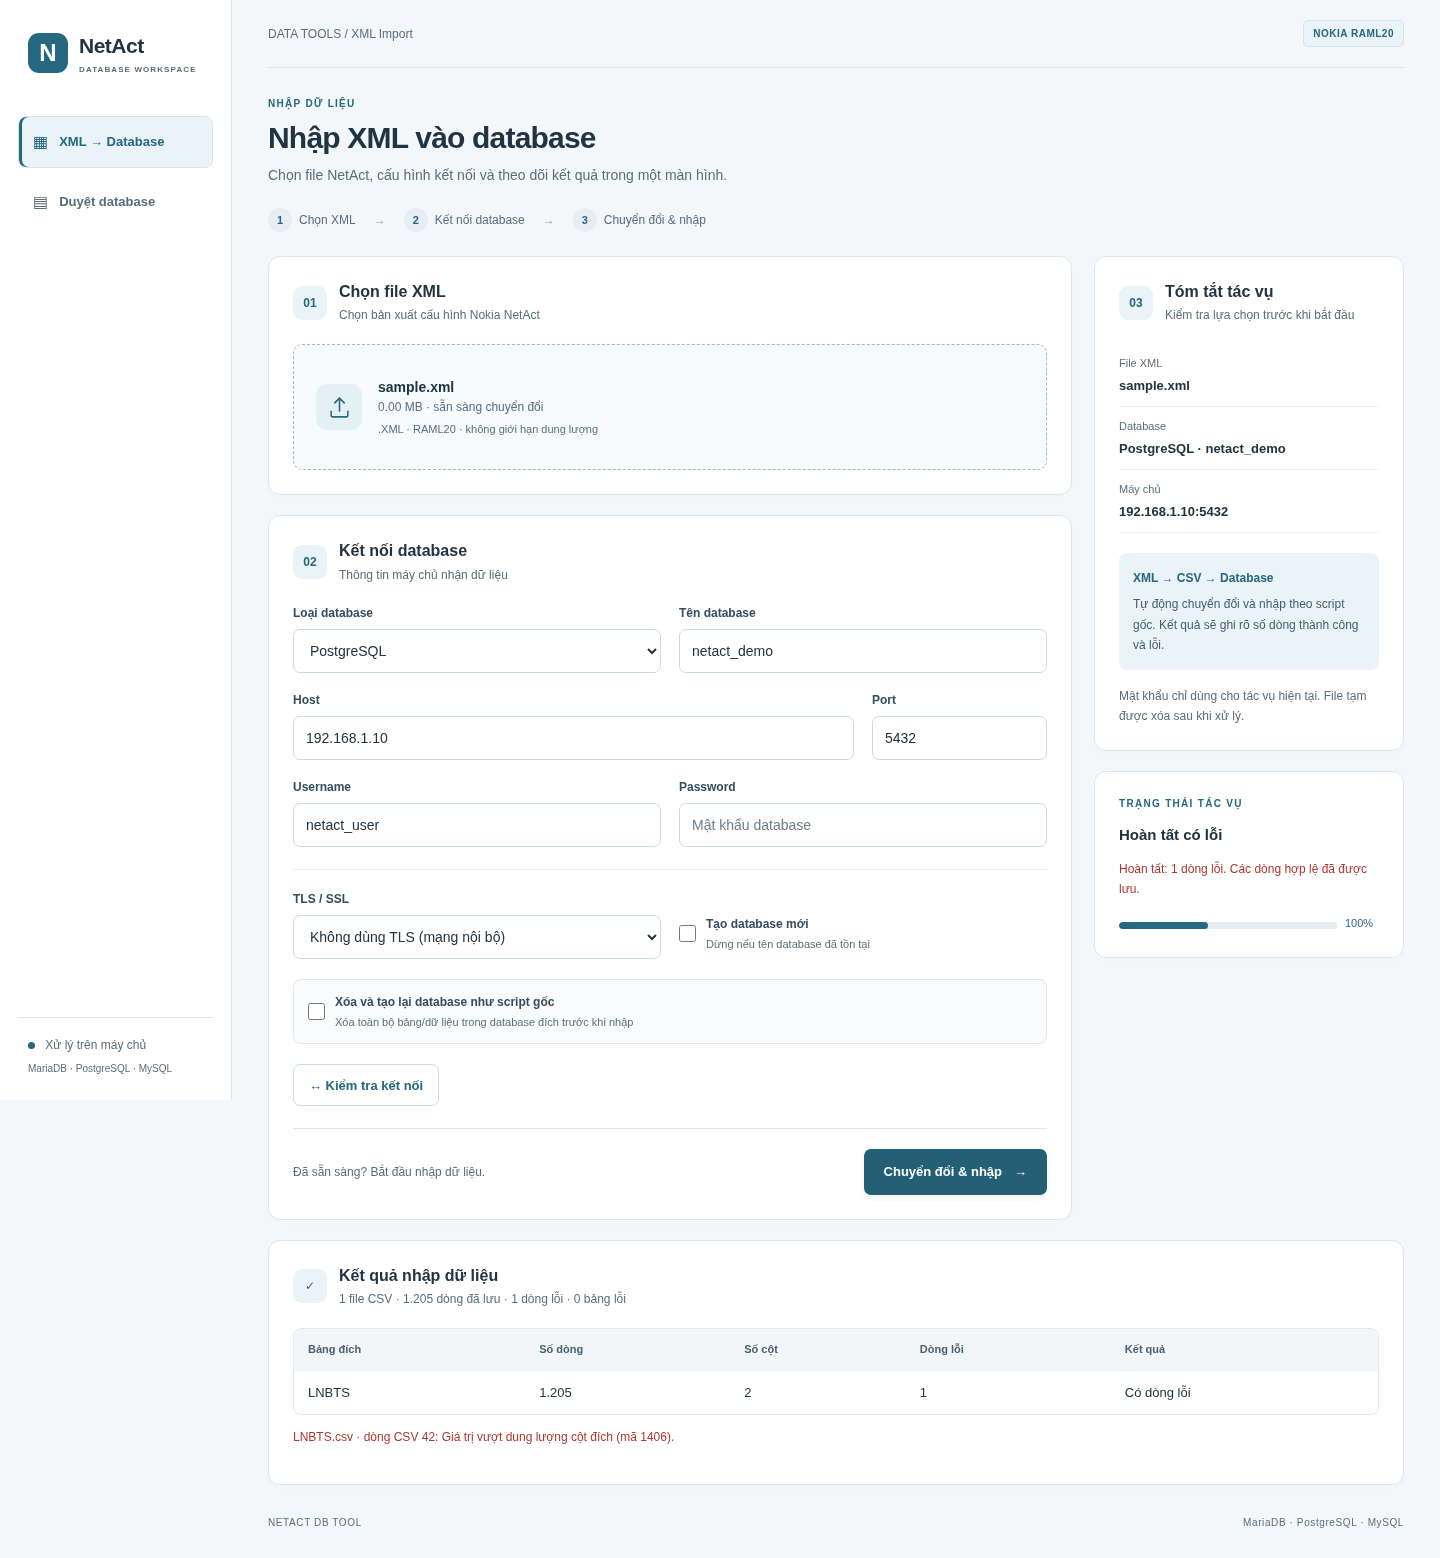
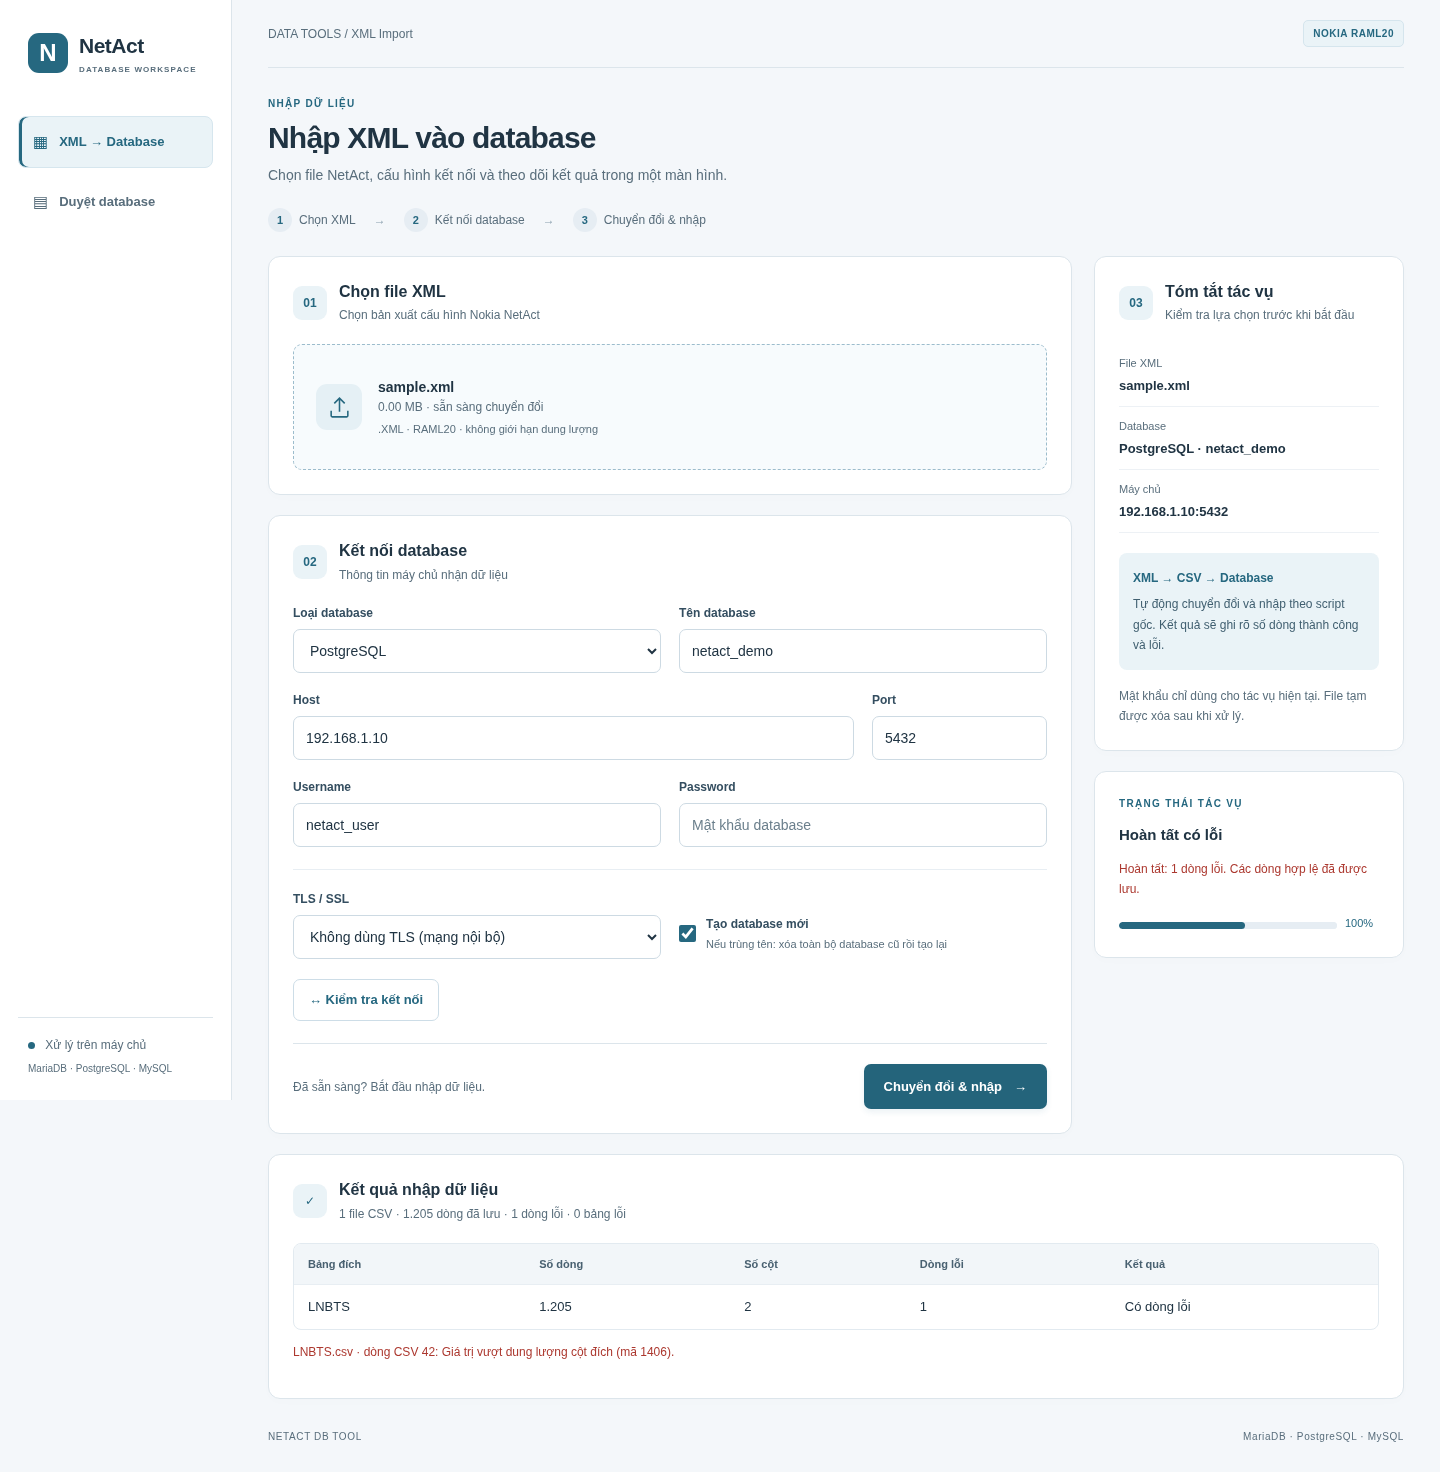
Merge database creation and reset into one recreate option

diff --git a/app/static/index.html b/app/static/index.html
@@ -12,8 +12,7 @@
 </section>
 <section class="card"><div class="section-title"><span class="step">02</span><div><h2>Kết nối database</h2><p>Thông tin máy chủ nhận dữ liệu</p></div></div>
 <div class="grid"><label>Loại database<select id="db_type"><option value="mariadb">MariaDB</option><option value="postgres">PostgreSQL</option><option value="mysql">MySQL</option></select></label><label>Tên database<input id="database" placeholder="netact_import" pattern="[A-Za-z_][A-Za-z0-9_]{0,62}" title="Chữ Latin, số, dấu gạch dưới; không bắt đầu bằng số; tối đa 63 ký tự" required></label><label>Host<input id="host" placeholder="VD: 192.168.1.10" required></label><label>Port<input id="port" type="number" min="1" max="65535" value="3306" required></label><label>Username<input id="username" autocomplete="username" placeholder="netact_user" required></label><label>Password<input id="password" type="password" autocomplete="current-password" placeholder="Mật khẩu database"></label></div>
-<div class="grid options"><label>TLS / SSL<select id="ssl_mode"><option value="disable">Không dùng TLS (mạng nội bộ)</option><option value="verify-full">TLS + xác minh chứng chỉ</option><option value="require" id="tls-require" disabled>TLS bắt buộc (PostgreSQL)</option></select></label><label class="check"><input id="create_database" type="checkbox"><span>Tạo database mới<small>Dừng nếu tên database đã tồn tại</small></span></label></div>
-<div class="reset-option"><label class="check"><input id="reset_database" type="checkbox"><span>Xóa và tạo lại database như script gốc<small>Xóa toàn bộ bảng/dữ liệu trong database đích trước khi nhập</small></span></label><label id="reset-confirm-label" hidden>Nhập lại tên database để xác nhận xóa<input id="confirm_database" autocomplete="off" placeholder="Tên database sẽ bị xóa"></label></div>
+<div class="grid options"><label>TLS / SSL<select id="ssl_mode"><option value="disable">Không dùng TLS (mạng nội bộ)</option><option value="verify-full">TLS + xác minh chứng chỉ</option><option value="require" id="tls-require" disabled>TLS bắt buộc (PostgreSQL)</option></select></label><label class="check"><input id="create_database" type="checkbox"><span>Tạo database mới<small>Nếu trùng tên: xóa toàn bộ database cũ rồi tạo lại</small></span></label></div>
 <div class="connection-row"><button type="button" class="button secondary" id="test-connection">↔ Kiểm tra kết nối</button><span id="connection-result" role="status"></span></div>
 <div class="form-actions"><span>Đã sẵn sàng? Bắt đầu nhập dữ liệu.</span><button class="button primary" id="submit" type="submit">Chuyển đổi & nhập <span aria-hidden="true">→</span></button></div>
 </section>

diff --git a/app/static/app.js b/app/static/app.js
@@ -5,8 +5,7 @@ const sleep = ms => new Promise(resolve => setTimeout(resolve, ms));
 function config() {
   return {db_type: $('db_type').value, host: $('host').value.trim(), port: Number($('port').value),
     database: $('database').value.trim(), username: $('username').value.trim(), password: $('password').value,
-    create_database: $('create_database').checked, reset_database: $('reset_database').checked,
-    confirm_database: $('confirm_database').value, ssl_mode: $('ssl_mode').value};
+    create_database: $('create_database').checked, ssl_mode: $('ssl_mode').value};
 }
 async function request(url, options) {
   const response = await fetch(url, options);
@@ -21,19 +20,8 @@ function setBusy(value) {
   for (const control of form.querySelectorAll('input,select,button')) control.disabled = value;
   if (!value) {
     $('tls-require').disabled = $('db_type').value !== 'postgres';
-    $('create_database').disabled = $('reset_database').checked;
   }
 }
-function resetChoice() {
-  const enabled = $('reset_database').checked;
-  $('reset-confirm-label').hidden = !enabled;
-  $('confirm_database').required = enabled;
-  $('create_database').disabled = enabled;
-  if (enabled) $('create_database').checked = false;
-  const match = !enabled || $('confirm_database').value === $('database').value;
-  $('confirm_database').setCustomValidity(match ? '' : 'Nhập đúng tên database để xác nhận xóa.');
-}
-for (const id of ['reset_database','confirm_database','database']) $(id).addEventListener('input', resetChoice);
 function updateSummary() {
   const file = $('xml-file').files[0];
   $('summary-file').textContent = file ? file.name : 'Chưa chọn file';

diff --git a/app/static/style.css b/app/static/style.css
@@ -78,10 +78,6 @@ input:disabled, select:disabled { background: #f3f6f8; color: var(--muted); opac
 .options .check { align-self: center; padding-top: 18px; }
 .check input { width: 17px; height: 17px; margin: 0; flex-shrink: 0; accent-color: var(--accent); cursor: pointer; }
 .check small { display: block; font-size: 11px; color: var(--muted); font-weight: 400; margin-top: 3px; line-height: 1.5; }
-.reset-option { margin-top: 20px; border: 1px solid #e1e7ec; border-radius: 8px; padding: 13px 14px; background: #fafbfc; }
-.reset-option:has(input:checked) { border-color: #e7bca8; background: #fff8f3; }
-.reset-option:has(input:checked) .check { color: #9c4532; }
-.reset-option > label + label { margin-top: 15px; }
 .connection-row { display: flex; gap: 14px; align-items: center; flex-wrap: wrap; margin-top: 20px; }
 #connection-result, #browse-connection { font-size: 12px; line-height: 1.6; overflow-wrap: anywhere; flex: 1; min-width: 140px; }
 .button { display: inline-flex; gap: 12px; align-items: center; justify-content: center; min-height: 42px; padding: 10px 15px; border: 1px solid transparent; border-radius: 7px; font-size: 13px; font-weight: 600; transition: background .15s, box-shadow .15s; }

diff --git a/app/errors.py b/app/errors.py
@@ -11,7 +11,7 @@ DATABASE_ERRORS = {
     '1045': 'Sai tài khoản/mật khẩu hoặc tài khoản không được phép kết nối từ máy chủ web.',
     '1044': 'Tài khoản không có quyền truy cập hoặc tạo database này.',
     '1049': 'Database chưa tồn tại. Tạo trước hoặc chọn Tạo database mới.',
-    '1007': 'Database đã tồn tại. Bỏ chọn Tạo database mới để dùng database đó.',
+    '1007': 'Database đã tồn tại hoặc đang được tạo bởi tác vụ khác. Kiểm tra tên đích và quyền DROP/CREATE.',
     '1142': 'Tài khoản thiếu quyền thực hiện thao tác trên bảng (CREATE/INSERT/SELECT/DROP).',
     '1050': 'Bảng đã tồn tại trong database đích.',
     '1118': 'Bảng vượt giới hạn kích thước một dòng của MariaDB/MySQL.',
@@ -27,7 +27,7 @@ DATABASE_ERRORS = {
     '28000': 'PostgreSQL từ chối xác thực. Kiểm tra tài khoản và pg_hba.conf.',
     '3D000': 'Database chưa tồn tại. Tạo trước hoặc chọn Tạo database mới.',
     '42501': 'Tài khoản PostgreSQL thiếu quyền trên database/schema/bảng.',
-    '42P04': 'Database đã tồn tại. Bỏ chọn Tạo database mới.',
+    '42P04': 'Database đã tồn tại hoặc đang được tạo bởi tác vụ khác. Kiểm tra tên đích và quyền DROP/CREATE.',
     '42P07': 'Bảng đã tồn tại trong schema đích.',
     '54011': 'Bảng vượt số cột PostgreSQL hỗ trợ.',
     '54000': 'Dữ liệu vượt giới hạn của PostgreSQL.',

diff --git a/tests/test_workflow.py b/tests/test_workflow.py
@@ -282,13 +282,15 @@ def test_real_database_workflow(db_type, port, user, tmp_path):
         with target.connect() as conn:
             assert conn.exec_driver_sql(f'SELECT COUNT(*) FROM {q(table)}').scalar() == 4
         verify_original_script_cases(target, tmp_path, db_type)
-        # Only this test's randomly named DB is dropped/recreated.
-        from pydantic import ValidationError
-        with pytest.raises(ValidationError):
-            ConnectionConfig(**{**config, 'reset_database': True, 'confirm_database': 'wrong'})
+        # Creating a database now means DROP IF EXISTS + CREATE with the same name.
+        # Leaving the option off, or testing a connection, must preserve existing data.
+        assert client.post('/api/connection', json=config).json()['ok']
+        assert inspect(target).get_table_names()
+        reused = prepare_database(ConnectionConfig(**{**config, 'create_database': False}))
+        assert inspect(reused).get_table_names()
+        reused.dispose()
         target.dispose()
-        recreated = prepare_database(ConnectionConfig(**{**config, 'reset_database': True,
-                                                        'confirm_database': config['database']}))
+        recreated = prepare_database(ConnectionConfig(**config))
         with recreated.connect() as conn:
             assert inspect(conn).get_table_names() == []
         recreated.dispose()

diff --git a/app/config.py b/app/config.py
@@ -1,6 +1,6 @@
 from typing import Literal
 
-from pydantic import BaseModel, ConfigDict, Field, SecretStr, field_validator, model_validator
+from pydantic import BaseModel, ConfigDict, Field, SecretStr, field_validator
 
 
 class ConnectionConfig(BaseModel):
@@ -12,15 +12,7 @@ class ConnectionConfig(BaseModel):
     username: str = Field(min_length=1, max_length=128)
     password: SecretStr
     create_database: bool = False
-    reset_database: bool = False
-    confirm_database: str = Field(default="", max_length=63)
     ssl_mode: Literal['disable', 'require', 'verify-full'] = 'disable'
-
-    @model_validator(mode='after')
-    def confirmed_reset(self):
-        if self.reset_database and self.confirm_database != self.database:
-            raise ValueError('Phải nhập đúng tên database để xác nhận xóa và tạo lại.')
-        return self
 
     @field_validator('ssl_mode')
     @classmethod

diff --git a/app/importer.py b/app/importer.py
@@ -37,14 +37,13 @@ def engine_for(config, database=None):
 
 
 def prepare_database(config):
-    if config.create_database or config.reset_database:
+    if config.create_database:
         admin = engine_for(config, 'postgres' if config.db_type == 'postgres' else 'information_schema')
         try:
             with admin.connect().execution_options(isolation_level='AUTOCOMMIT') as conn:
                 name = admin.dialect.identifier_preparer.quote_identifier(config.database)
                 suffix = ' CHARACTER SET utf8mb4 COLLATE utf8mb4_unicode_ci' if config.db_type != 'postgres' else ''
-                if config.reset_database:
-                    conn.exec_driver_sql(f'DROP DATABASE IF EXISTS {name}')
+                conn.exec_driver_sql(f'DROP DATABASE IF EXISTS {name}')
                 conn.exec_driver_sql(f'CREATE DATABASE {name}{suffix}')
         finally:
             admin.dispose()

diff --git a/app/main.py b/app/main.py
@@ -96,7 +96,7 @@ def health():
 @app.post('/api/connection')
 def test_connection(config: ConnectionConfig):
     # Read-only: never create a database from the connection-test button.
-    engine = engine_for(config, ('postgres' if config.db_type == 'postgres' else 'information_schema') if config.create_database or config.reset_database else None)
+    engine = engine_for(config, ('postgres' if config.db_type == 'postgres' else 'information_schema') if config.create_database else None)
     try:
         with engine.connect() as conn:
             conn.execute(text('SELECT 1')).scalar_one()

diff --git a/README.md b/README.md
@@ -42,9 +42,9 @@ Mở trình duyệt tại `http://localhost:8000`. Chọn XML từ máy tính, n
 host, port, database, username, password và TLS. Nhấn **Kiểm tra kết nối**, sau đó
 **Chuyển đổi & nhập**. Xem tiến độ và số bảng/dòng đã lưu.
 
-- **Database đã có:** bỏ chọn “Tạo database mới”; tài khoản cần quyền CONNECT, CREATE TABLE, INSERT và DROP (để dọn khi lỗi).
-- **Database mới:** chọn “Tạo database mới”; cần quyền CREATE DATABASE. PostgreSQL dùng database `postgres` để kết nối quản trị;
-  MariaDB/MySQL dùng `information_schema`. Database đã tồn tại sẽ làm bước tạo thất bại.
+- **Database đã có:** bỏ chọn “Tạo database mới”; tài khoản cần quyền CONNECT, CREATE TABLE và INSERT.
+- **Database mới:** chọn “Tạo database mới”; chạy DROP DATABASE IF EXISTS rồi CREATE cùng tên, cần quyền DROP/CREATE DATABASE. PostgreSQL dùng database `postgres` để kết nối quản trị;
+  MariaDB/MySQL dùng `information_schema`. **Nếu database đã tồn tại, toàn bộ dữ liệu trong đó sẽ bị xóa.**
 - Tên database: chữ Latin, số, `_`, tối đa 63 ký tự, không bắt đầu bằng số.
 - Host là địa chỉ **máy chủ web** truy cập được; không phải địa chỉ tương đối với máy đang mở trình duyệt.
 - PostgreSQL mặc định 5432; MariaDB/MySQL 3306. Có thể sửa port.
@@ -120,10 +120,9 @@ Log máy chủ chỉ ghi mã tác vụ, giai đoạn, loại exception và mã l
   để lỗi một dòng không làm hỏng toàn bộ transaction. Commit sau khi duyệt các file CSV.
 - Kết quả hiển thị số dòng thành công, dòng lỗi, bảng lỗi và tối đa 20 chi tiết lỗi mỗi file,
   không chứa giá trị dữ liệu/SQL/mật khẩu. Nếu có lỗi, trạng thái là **Hoàn tất có lỗi**, không báo thành công toàn bộ.
-- Để thực hiện đúng bước `DROP DATABASE IF EXISTS` rồi `CREATE DATABASE` của script gốc,
-  chọn **Xóa và tạo lại database như script gốc** và nhập lại đúng tên database để xác nhận.
-  **Bước này xóa toàn bộ bảng/dữ liệu của database đích.** Tài khoản cần quyền DROP/CREATE DATABASE.
-  Mặc định không tự xóa database; nếu không chọn xóa hoặc tạo mới thì dùng database đang có.
+- Chỉ có một tùy chọn **Tạo database mới**: bật thì chạy `DROP DATABASE IF EXISTS` rồi `CREATE DATABASE`
+  cùng tên; tắt thì dùng database hiện có và giữ dữ liệu. Không có ô reset/xác nhận tên riêng.
+  **Khi bật, toàn bộ bảng/dữ liệu của database trùng tên sẽ bị xóa.** Tài khoản cần quyền DROP/CREATE DATABASE.
   Kiểm tra kết nối và duyệt database không bao giờ thực hiện DROP/CREATE.
 - Lỗi đọc file/CSV, commit, mất kết nối hoặc tiến trình bị dừng có thể làm tác vụ dừng và còn dữ liệu nhập dở,
   như khi script bị gián đoạn. Không chạy đồng thời tác vụ khác sửa cùng database trong lúc import.
@@ -176,7 +175,7 @@ docker rm -f netact-test-pg netact-test-maria
 
 Kiểm thử chạy JAR thật, upload API, tạo DB tạm, đọc lại giá trị tiếng Việt/ID `001`,
 kiểm tra tái sử dụng bảng, kiểu VARCHAR/TEXT, dòng thiếu/thừa/trắng, encoding, bảng 400 cột,
-lỗi tạo bảng/insert vẫn tiếp tục, tên file cắt trùng và xác nhận xóa/tạo lại database kiểm thử. Kiểm thử database còn xác minh danh sách bảng,
+lỗi tạo bảng/insert vẫn tiếp tục, tên file cắt trùng và tạo mới/xóa-tạo-lại database kiểm thử. Kiểm thử database còn xác minh danh sách bảng,
 phân trang, tên bảng có dấu ngoặc kép, NULL và export 1.205 dòng qua nhiều lô, giữ nguyên giá trị CSV. Chỉ DB tên ngẫu nhiên do test tạo mới bị xóa.
 Chưa có XML thực tế của người dùng để xác nhận các class/list đặc thù hoặc hiệu năng file lớn.
 
